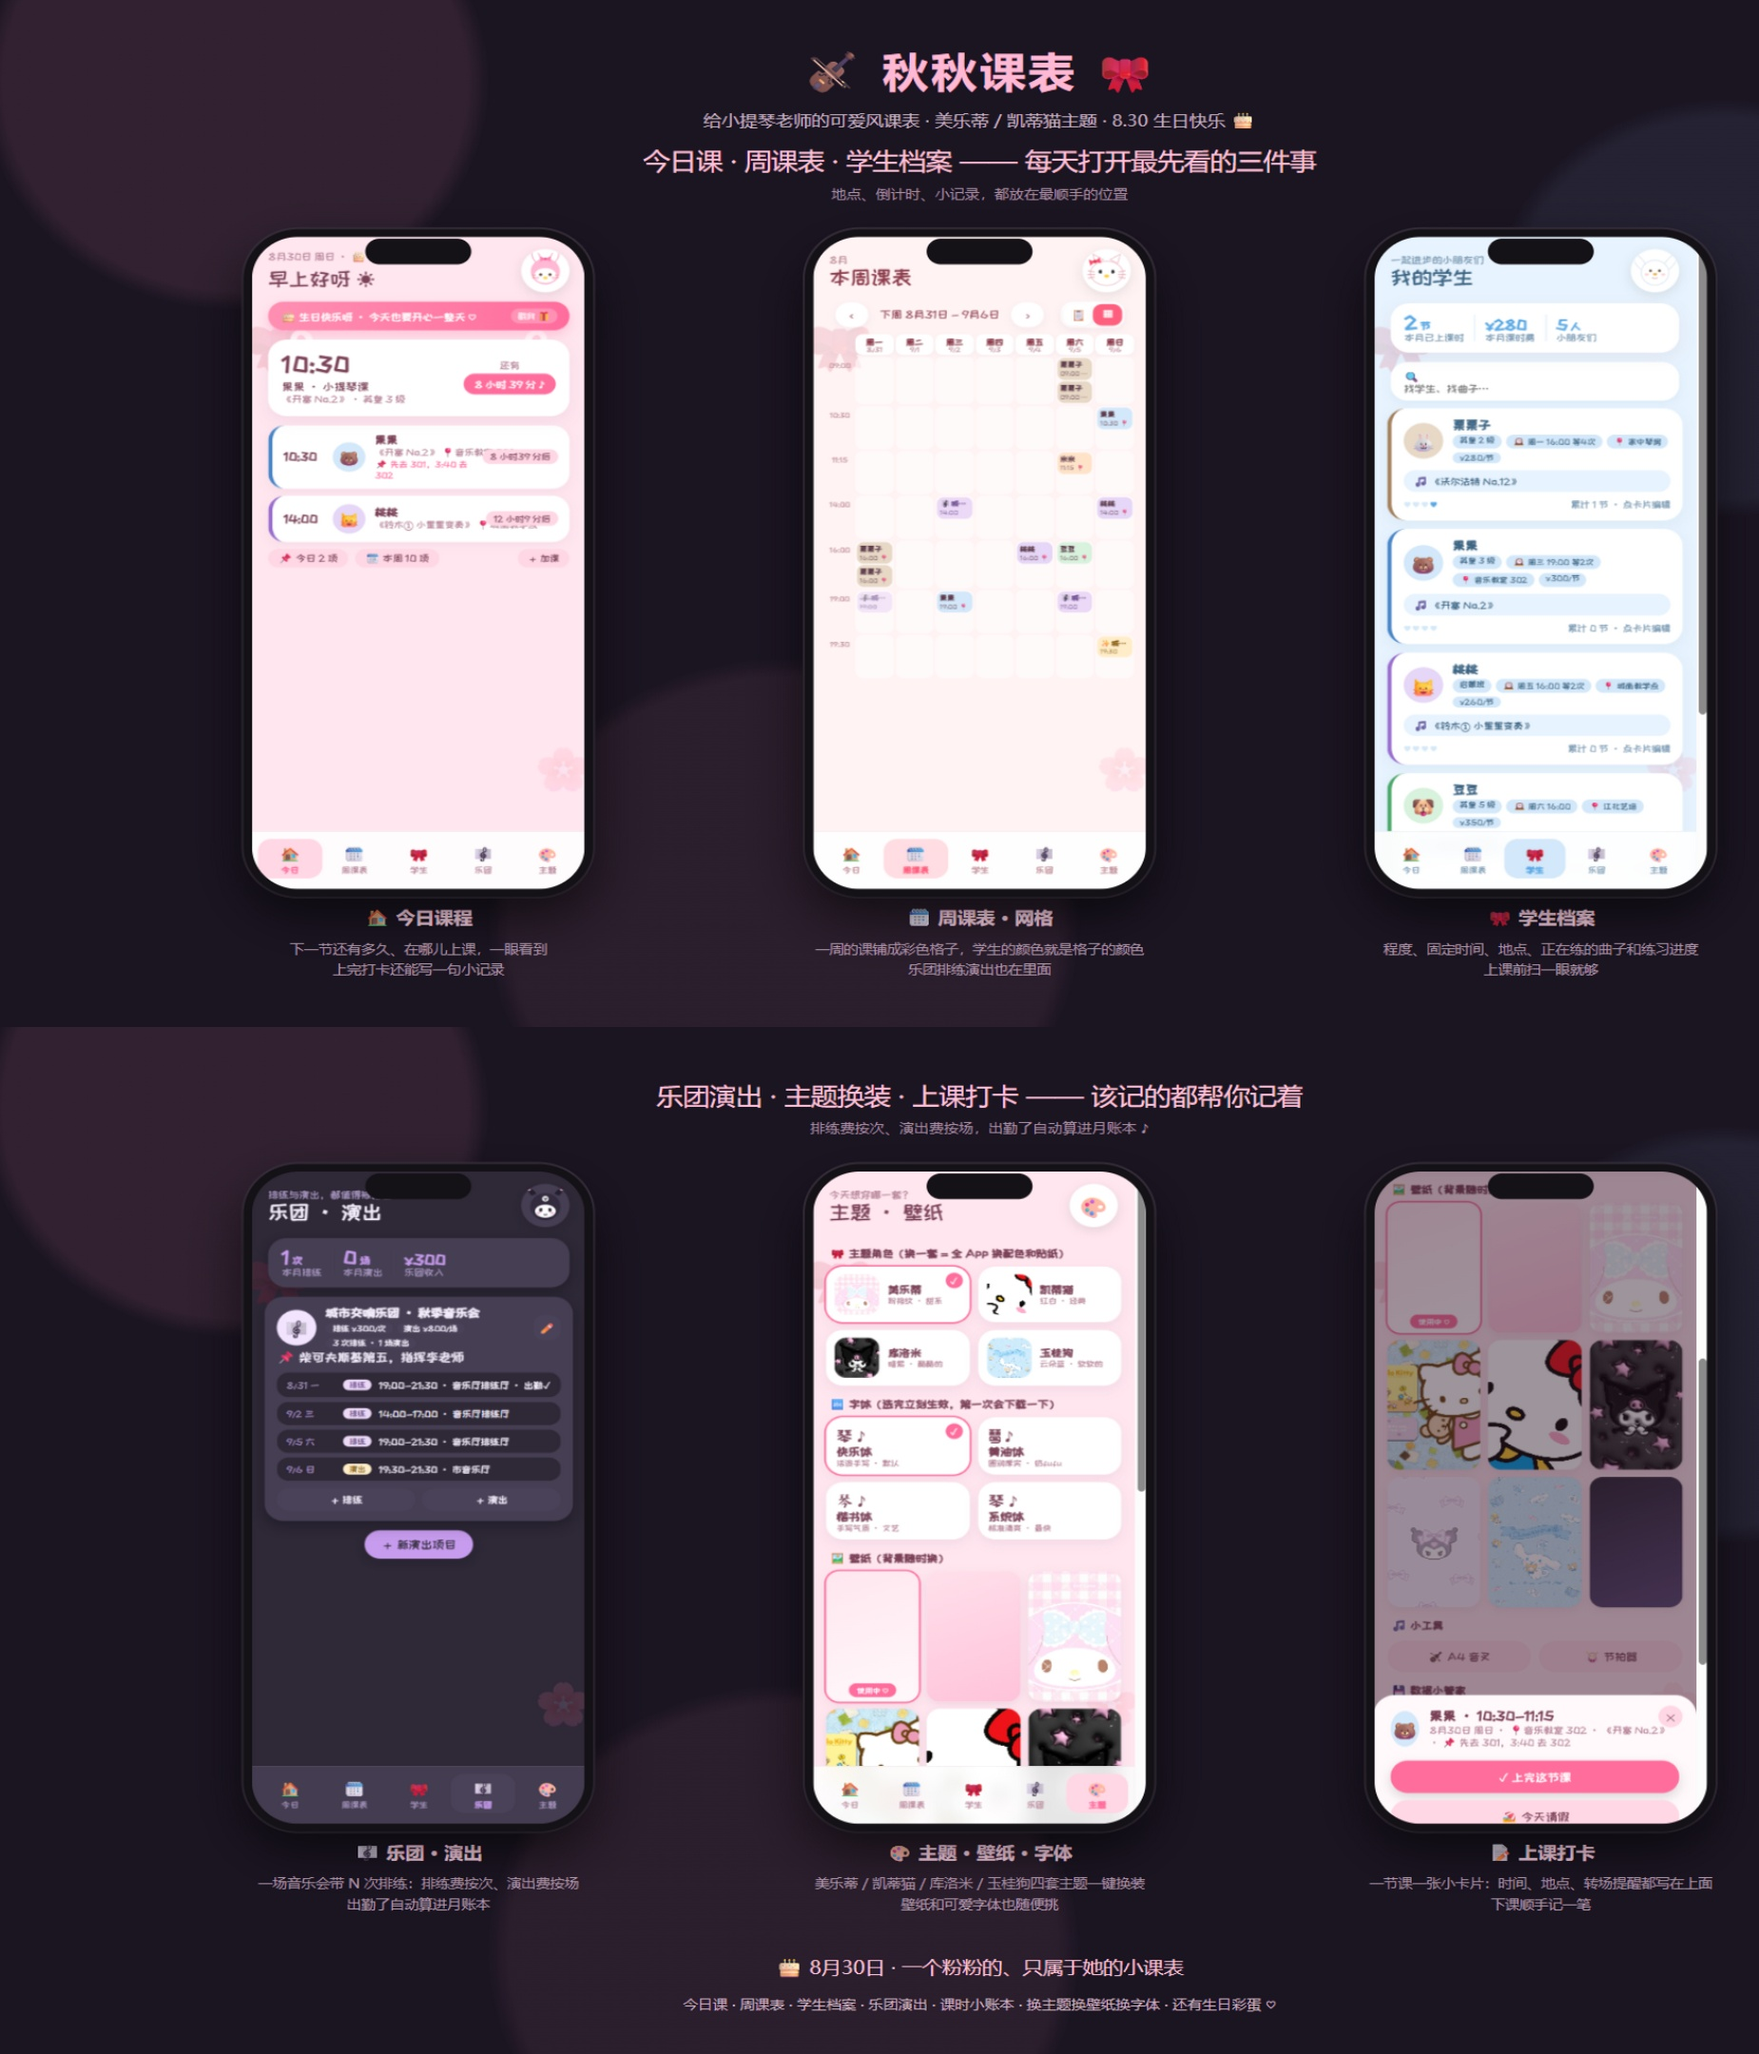
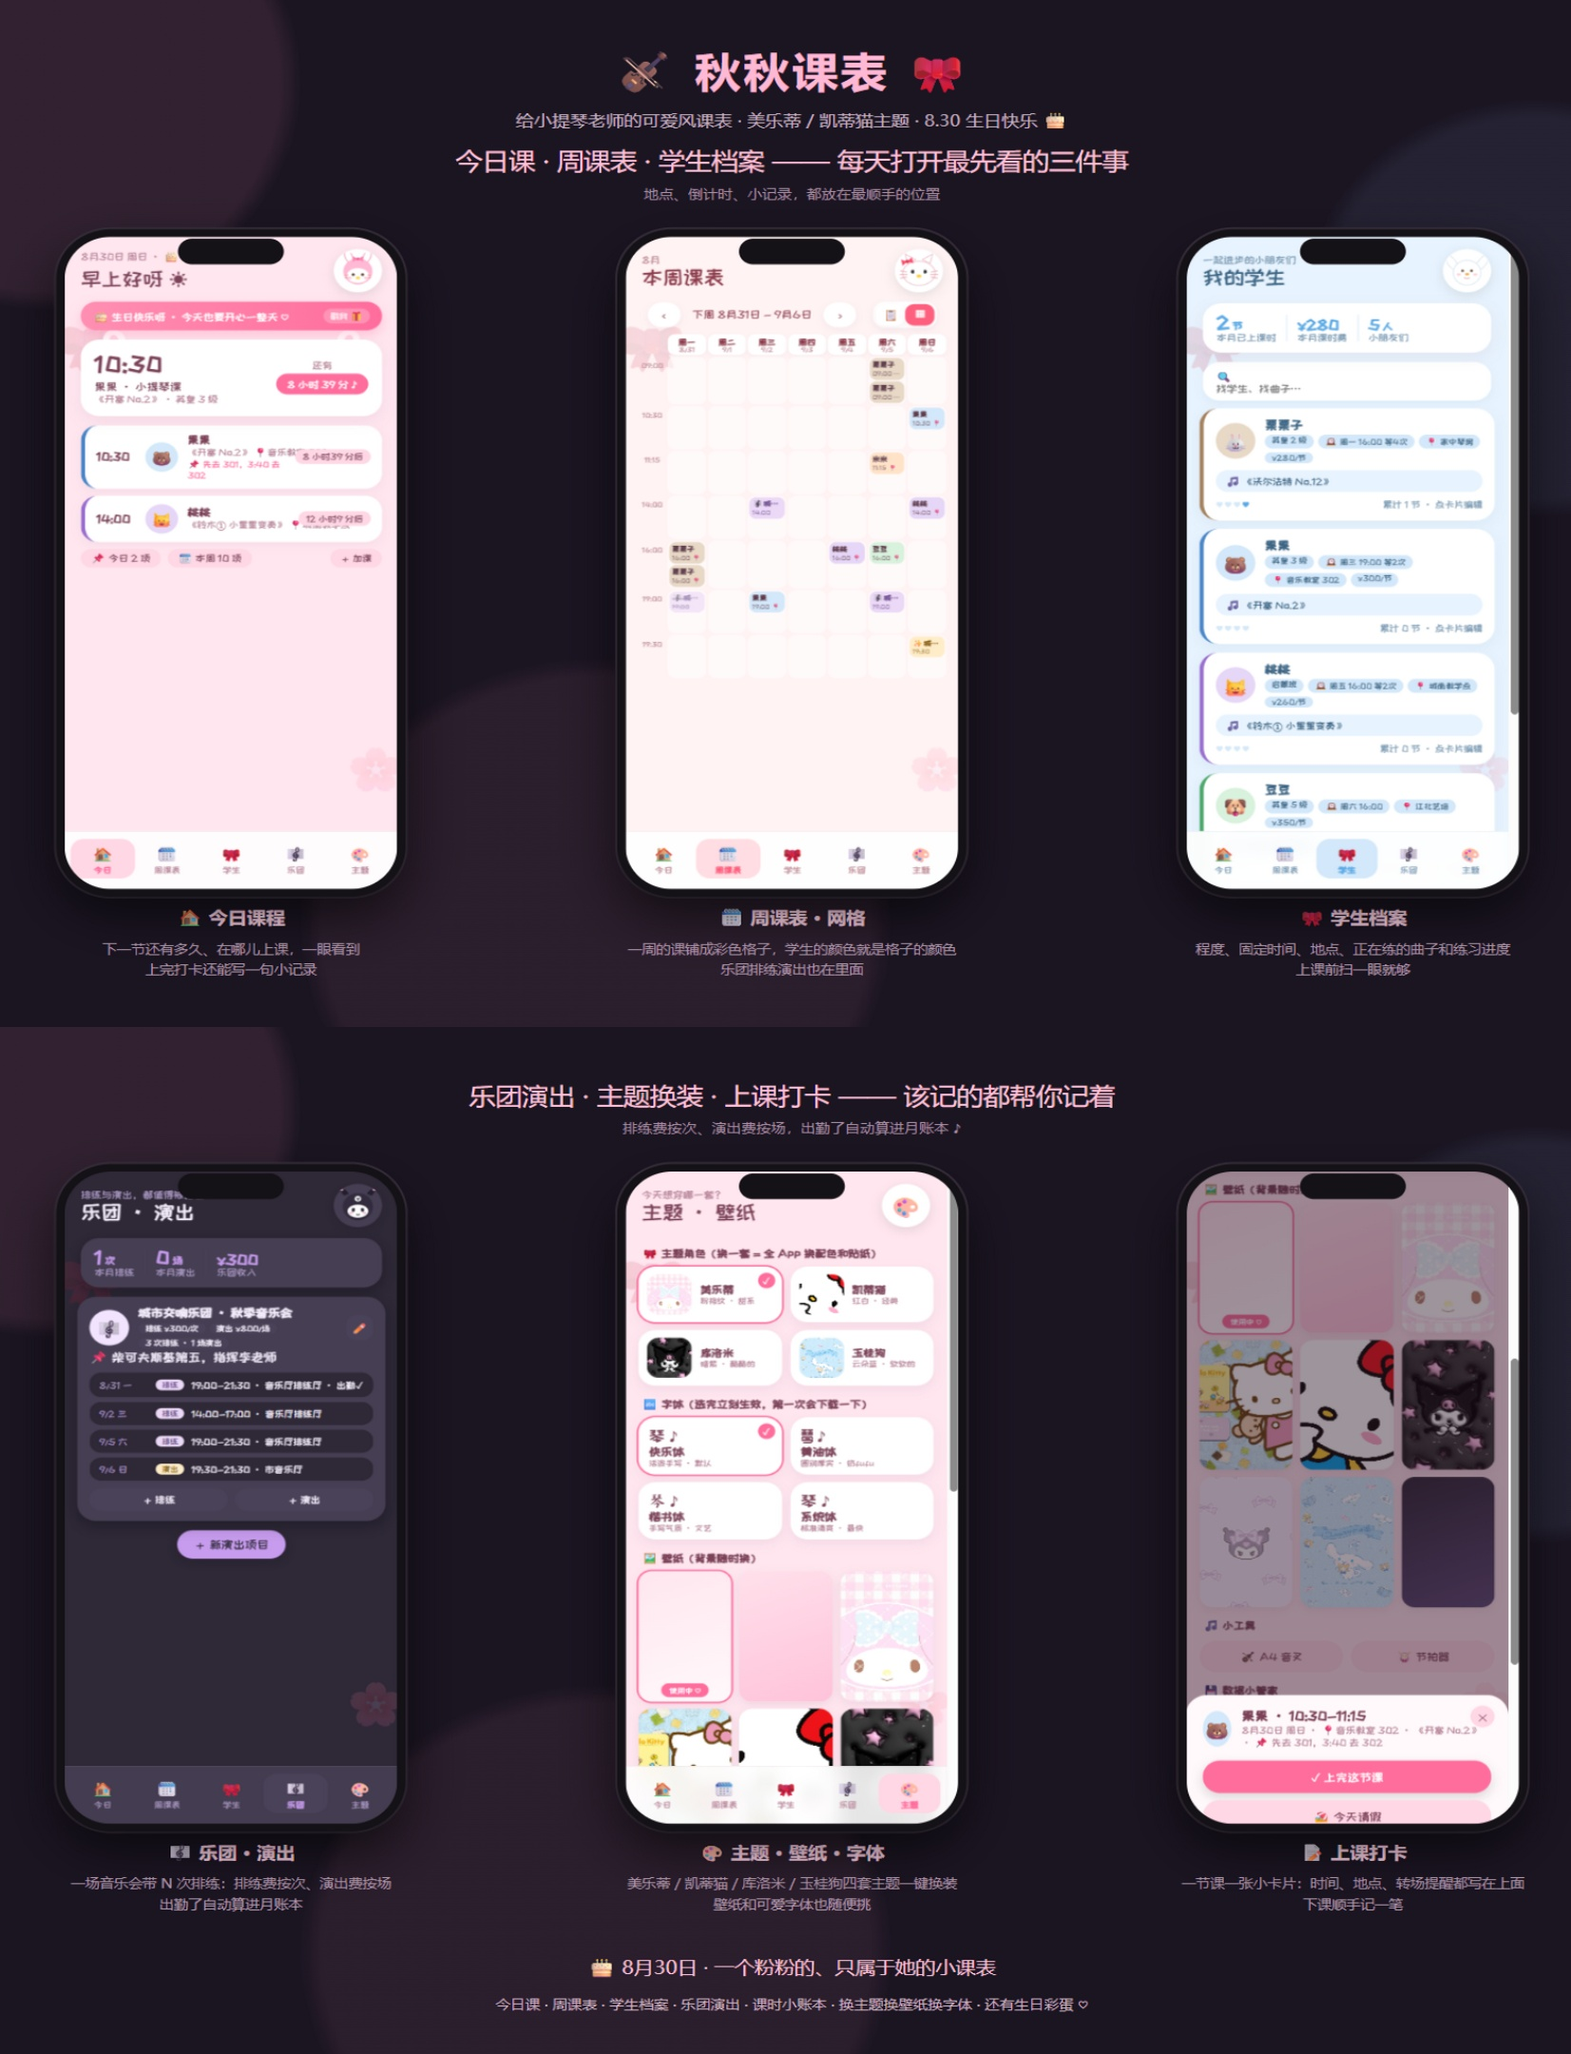
宣传图：删除右下水印、画布居中修复、按内容原始分辨率导出

diff --git a/mockup/share.html b/mockup/share.html
@@ -29,7 +29,6 @@ body{background:#0f0c12;display:flex;flex-direction:column;align-items:center}
 .island{position:absolute;top:10px;left:50%;transform:translateX(-50%);width:100px;height:27px;background:#151217;border-radius:16px;z-index:5}
 .foot{position:absolute;bottom:38px;left:0;right:0;text-align:center;font-size:14px;color:#cfb3c2;line-height:1.9}
 .foot .big{font-size:19px;color:#ffc3da;margin-bottom:8px}
-.hint{position:absolute;bottom:6px;right:14px;font-size:11px;color:#5e5266}
 </style>
 </head>
 <body>
@@ -84,7 +83,6 @@ body{background:#0f0c12;display:flex;flex-direction:column;align-items:center}
     <div class="big">🎂 8月30日 · 一个粉粉的、只属于她的小课表</div>
     今日课 · 周课表 · 学生档案 · 乐团演出 · 课时小账本 · 换主题换壁纸换字体 · 还有生日彩蛋 ♡
   </div>
-  <div class="hint">qinqin · 2026</div>
 </div>
 
 </body>
